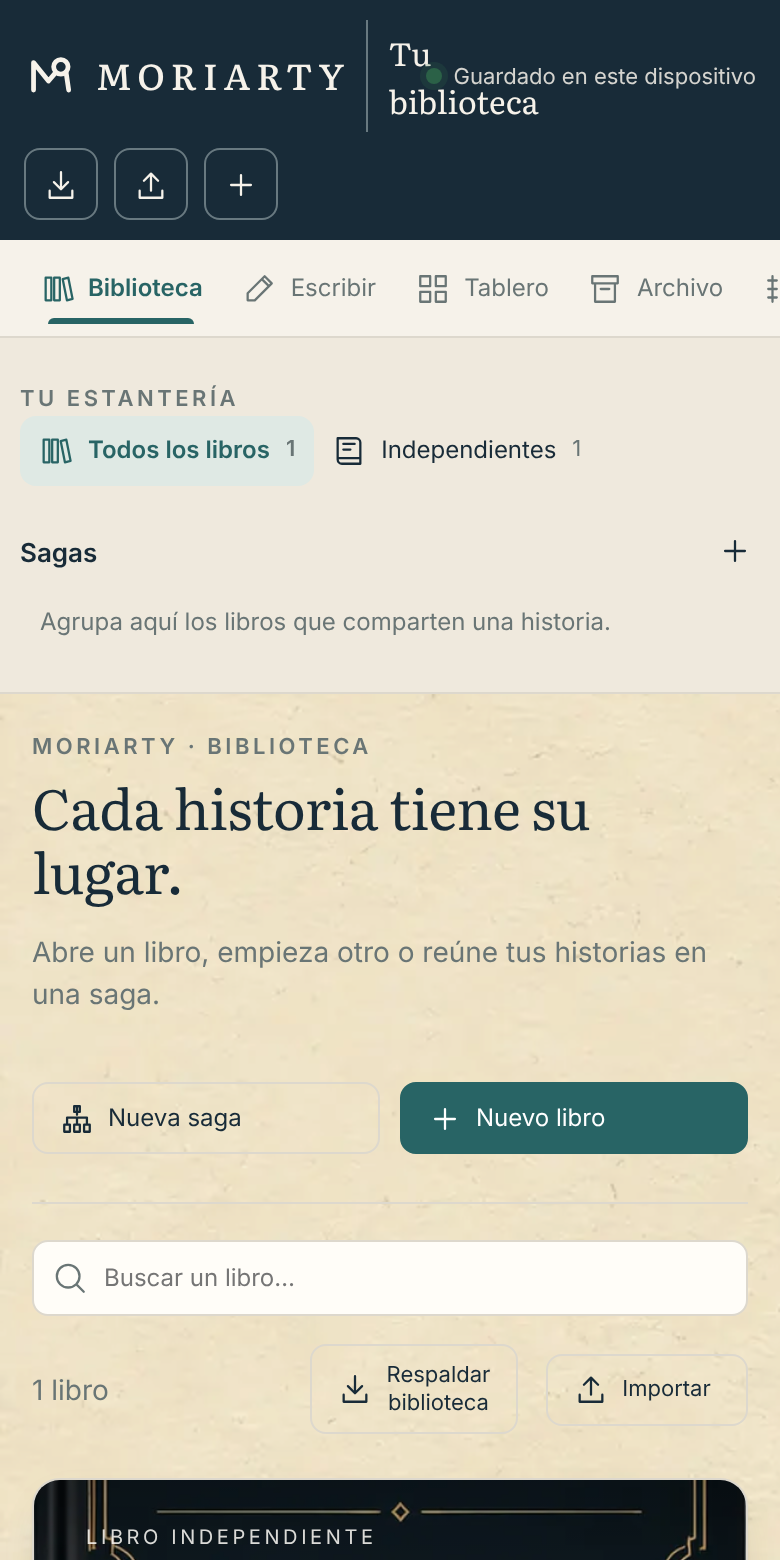
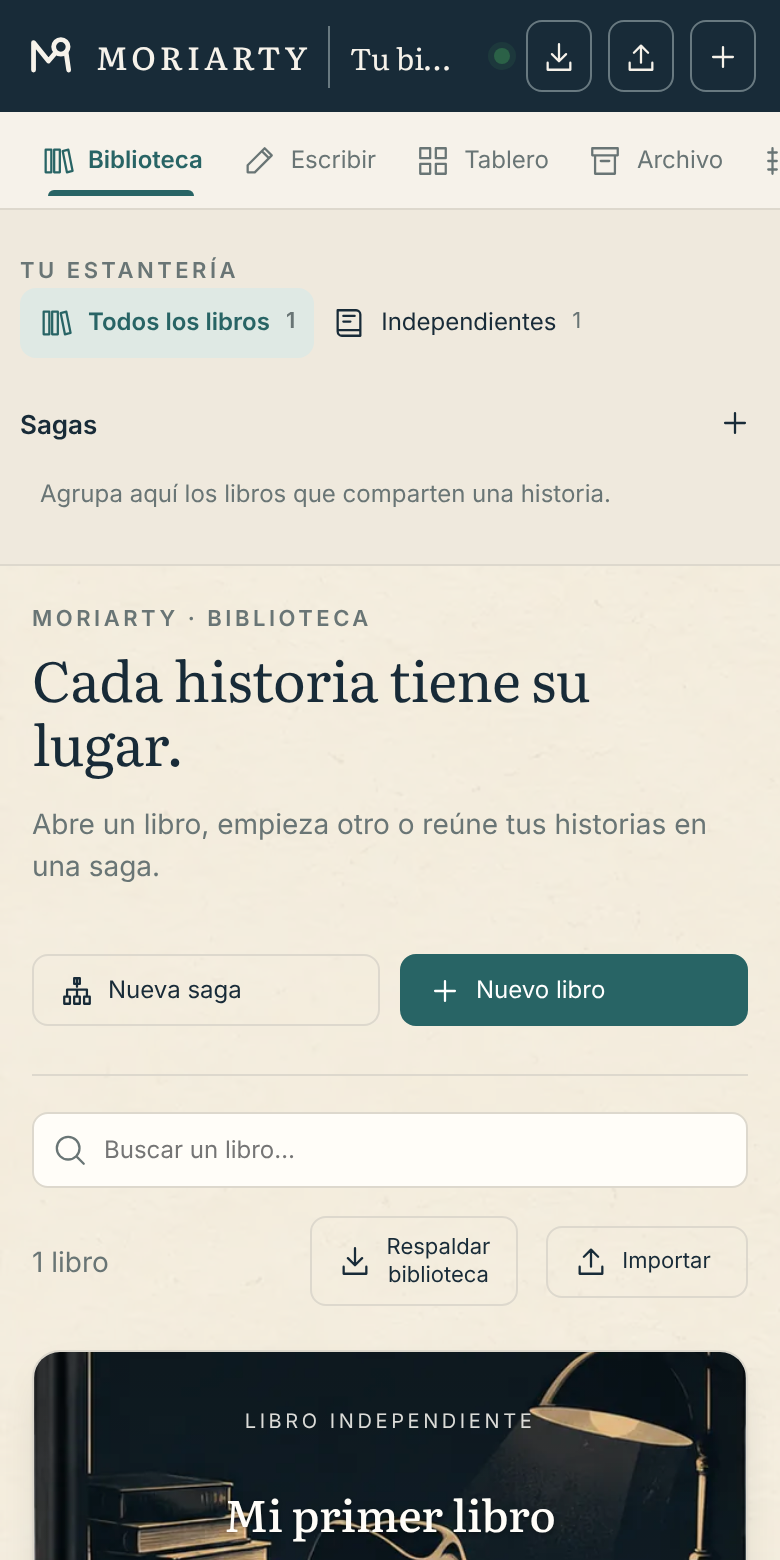
V0.3: ajustes de imágenes (título de portada arriba, papel más tenue, estados vacíos fundidos, arranque legible, cabecera móvil)
Claude-Session: https://claude.ai/code/session_019irDhg9R3vBrL3R1LDZwQ2

diff --git a/dist/style.css b/dist/style.css
@@ -966,7 +966,7 @@ label .field {
   transition:
     transform var(--t),
     box-shadow var(--t);
-  animation: fade-up 240ms var(--ease) both;
+  animation: fade-up 240ms var(--ease) backwards;
 }
 .book-card:hover {
   transform: translateY(-3px);
@@ -1274,7 +1274,7 @@ label .field {
   }
 }
 main > * {
-  animation: fade-up 220ms var(--ease) both;
+  animation: fade-up 220ms var(--ease) backwards;
 }
 ::view-transition-old(root) {
   animation: 120ms var(--ease) both fade-out;
@@ -1453,15 +1453,21 @@ main > * {
 }
 
 /* ---------- Ilustraciones (entrega de Argos, 2026-10-22) ---------- */
-body {
-  background-image: url('img/papel-claro.webp');
-  background-size: 512px;
-  background-blend-mode: multiply;
+body::before {
+  content: '';
+  position: fixed;
+  inset: 0;
+  z-index: -1;
+  pointer-events: none;
+  background: url('img/papel-claro.webp') 0 0 / 512px;
+  opacity: 0.35;
+  mix-blend-mode: multiply;
 }
 @media (prefers-color-scheme: dark) {
-  body {
+  body::before {
     background-image: url('img/papel-oscuro.webp');
-    background-blend-mode: soft-light;
+    opacity: 0.25;
+    mix-blend-mode: screen;
   }
 }
 .brand .logo {
@@ -1488,8 +1494,11 @@ body {
 #splash .mark {
   position: relative;
   z-index: 1;
-  padding: 22px 30px;
+  padding: 22px 34px;
   border-radius: 20px;
+  background: color-mix(in srgb, var(--paper) 82%, transparent);
+  backdrop-filter: blur(6px);
+  box-shadow: var(--shadow-lg);
 }
 .art {
   display: block;
@@ -1518,8 +1527,13 @@ body {
   text-align: center;
   padding: 8px 0 4px;
 }
-.library-empty .art {
-  opacity: 0.95;
+.art img {
+  mix-blend-mode: multiply;
+}
+@media (prefers-color-scheme: dark) {
+  .art img {
+    mix-blend-mode: screen;
+  }
 }
 .portrait-default {
   display: block;
@@ -1531,9 +1545,53 @@ body {
   height: 100%;
   object-fit: cover;
 }
+.book-cover.cover-default {
+  justify-content: flex-start;
+  gap: 10px;
+  background-position: center bottom;
+  min-height: 300px;
+}
 .book-cover.cover-default::after {
-  background: linear-gradient(180deg, rgb(0 0 0 / 0.35), rgb(0 0 0 / 0.1) 35%, rgb(0 0 0 / 0.55));
+  background: linear-gradient(180deg, rgb(0 0 0 / 0.15), transparent 40%);
+}
+.book-cover.cover-default .cover-kicker {
+  align-self: center;
+  margin-top: 6px;
 }
 .book-cover.cover-default .cover-title {
-  margin-top: auto;
+  align-self: center;
+  text-align: center;
+  font-size: 22px;
+  max-width: 78%;
+  margin-top: 8px;
+}
+.book-cover.cover-default .cover-bottom {
+  display: none;
+}
+
+@media (max-width: 560px) {
+  header {
+    flex-wrap: nowrap;
+  }
+  .brand {
+    letter-spacing: 2px;
+    font-size: 16px;
+  }
+  #projectTitle,
+  #libraryTitle {
+    flex: 1 1 auto;
+    min-width: 0;
+    white-space: nowrap;
+    overflow: hidden;
+    text-overflow: ellipsis;
+    font-size: 15px;
+  }
+  #saved {
+    font-size: 0;
+    gap: 0;
+  }
+  header .menu > button,
+  header > button {
+    padding: 7px;
+  }
 }

diff --git a/dist/sw.js b/dist/sw.js
@@ -1,5 +1,5 @@
 // MORIARTY V0.3 — caché para uso sin conexión. Cambiar CACHE al publicar una versión nueva.
-const CACHE = 'moriarty-v03-2';
+const CACHE = 'moriarty-v03-3';
 const FILES = [
   './',
   './index.html',
